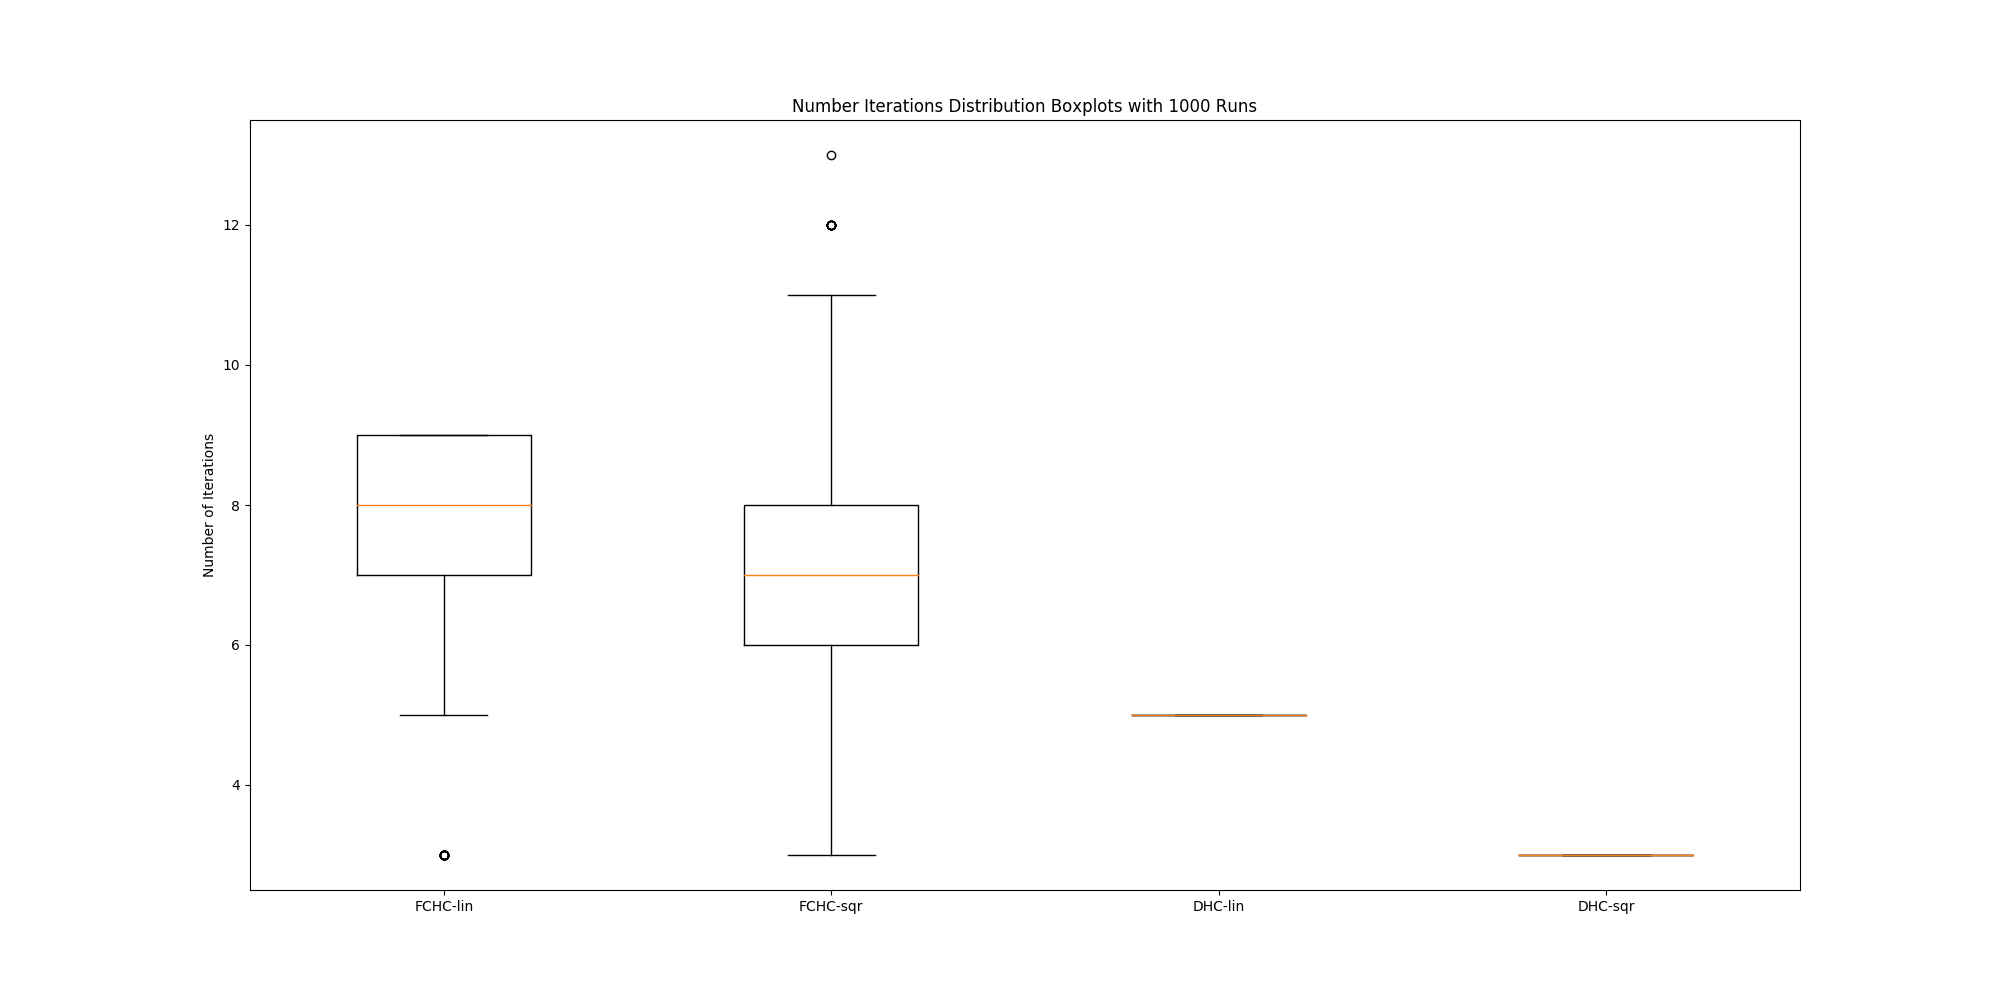
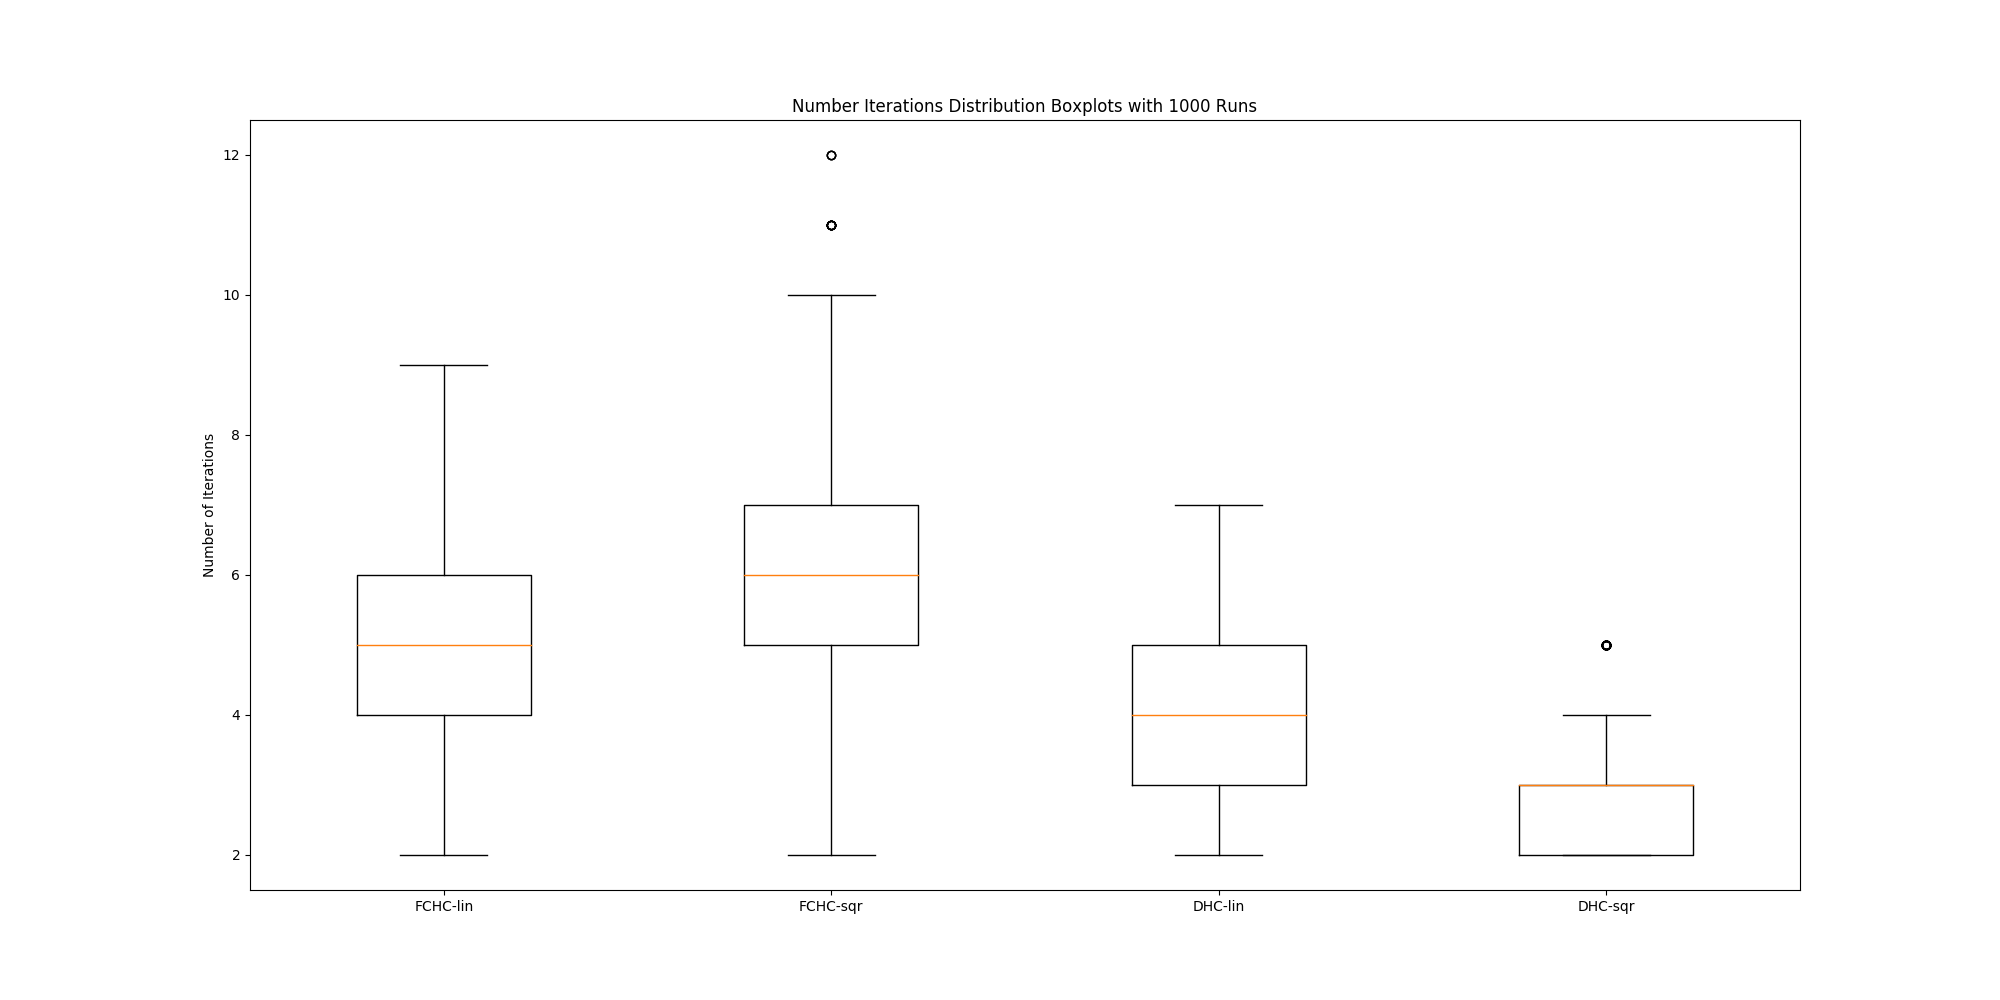
added random starting bag

diff --git a/Task1/functions_week1.py b/Task1/functions_week1.py
@@ -1,5 +1,5 @@
 from random import shuffle
-
+import numpy as np
 
 def calculate_weight_value(bag_setup, item_dictionary):
     """
@@ -37,8 +37,10 @@ def hill_climbing(item_dictionary, weight_limit, mode="square"):
         tuple with first element being a tuple (best_setup, weight, best_value)
         and the second element being the history of the values
     """
-    # initial bag setup is empty:
-    bag = [0]*len(item_dictionary)
+    # initial bag setup is random, but is supposed to be under the weight limit
+    bag = list(np.random.choice([0,1], size=(len(item_dictionary,))))
+    while calculate_weight_value(bag, item_dictionary)[0] > weight_limit:
+        bag = list(np.random.choice([0,1], size=(len(item_dictionary,))))
     # value list for analysis, start with empty bag with weight = 0
     value_list = [0]
     # to save currently best value
@@ -55,7 +57,7 @@ def hill_climbing(item_dictionary, weight_limit, mode="square"):
             neighbors = find_linear_neighborhood(bag)
         elif mode == "square":
             neighbors = find_square_neighborhood(bag)
-
+        
         # each element in neighbors is tuple: (bag_setup, value, weight)
         for n_bag in neighbors:
             weight_temp, value_temp = calculate_weight_value(n_bag, item_dictionary)
@@ -92,8 +94,10 @@ def first_choice_hill_climbing(item_dictionary, weight_limit, mode="square"):
         tuple with first element being a tuple (best_setup, weight, best_value)
         and the second element being the history of the values
     """
-    # initial bag setup is empty:
-    bag = [0]*len(item_dictionary)
+    # initial bag setup is random, but is supposed to be under the weight limit
+    bag = list(np.random.choice([0,1], size=(len(item_dictionary,))))
+    while calculate_weight_value(bag, item_dictionary)[0] > weight_limit:
+        bag = list(np.random.choice([0,1], size=(len(item_dictionary,))))
     # value list for analysis, start with empty bag with weight = 0
     value_list = [0]
 
